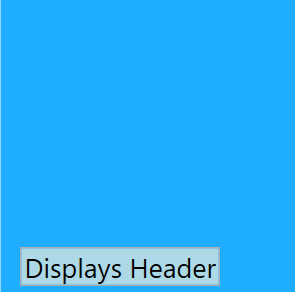
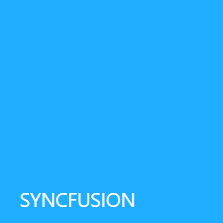
Modified 3 files in UG of HubTile

Changed region(s): [[0.0538, 0.8341, 0.7534, 0.9955], [0.0, 0.0, 0.0269, 1.0]]

diff --git a/wpf/Hub-Tile/Hub-Tile-Control.md b/wpf/Hub-Tile/Hub-Tile-Control.md
@@ -13,12 +13,13 @@ documentation: ug
 
 ## Setting Header content
 
-Header is used to display the contents at the bottom of the tile. The  content of the header can be an image, a text or a control, etc. You can set header to the tile by setting [Header](https://help.syncfusion.com/cr/wpf/Syncfusion.SfShared.Wpf~Syncfusion.Windows.Primitives.HeaderedContentControl~Header.html) property.
+Header is a name given to the tile that describes the functionality of the tile. You can set header to the tile by setting [Header](https://help.syncfusion.com/cr/wpf/Syncfusion.SfShared.Wpf~Syncfusion.Windows.Primitives.HeaderedContentControl~Header.html) property.
+The below example defines a tile that represents mail application.
 
 {% tabs %}
 {% highlight XAML %}
 <!-- SfHubTile -->
-<syncfusion:SfHubTile x:Name="hubTile" Header="HubTile"/>
+<syncfusion:SfHubTile x:Name="hubTile" Header="Mail"/>
 <!--setting header as an image-->
 <syncfusion:SfHubTile x:Name="hubTile">
    <syncfusion:SfHubTile.Header>
@@ -28,7 +29,7 @@ Header is used to display the contents at the bottom of the tile. The  content o
 <!--setting header as a control-->
 <syncfusion:SfHubTile x:Name="hubTile" Width="200">
    <syncfusion:SfHubTile.Header>
-        <TextBox Text="SYNCFUSION" />
+          <TextBlock Text="SYNCFUSION" Foreground="White" FontSize="13"/>
         </syncfusion:SfHubTile.Header>
   </syncfusion:SfHubTile>      
 {% endhighlight %}
@@ -36,12 +37,12 @@ Header is used to display the contents at the bottom of the tile. The  content o
 
 	//Setting header on HubTile
 	SfHubTile hubTile = new SfHubTile();
-	hubTile.Header = "HubTile";
+	hubTile.Header = "Mail";
 
 {% endhighlight %}
 {% endtabs %}
 
-![wpf tile header](Getting-Started_images/wpf-tile-setting-header-hubtile.png)
+![wpf tile header](Getting-Started_images/wpf-hubtile-header.png)
 
 ![wpf hubtile header as image](Getting-Started_images/wpf-hubtile-header-image.png)
 
@@ -49,12 +50,12 @@ Header is used to display the contents at the bottom of the tile. The  content o
 
 ## Setting Title content 
 
- Title is used to display the contents at the top of the tile. The content can be an image, a text or a control, etc. You can set title to the tile by setting [Title](https://help.syncfusion.com/cr/wpf/Syncfusion.SfHubTile.Wpf~Syncfusion.Windows.Controls.Notification.HubTileBase~Title.html) property.
+ Title is used to display the notifications and updates in the tile. You can set title to the tile by setting [Title](https://help.syncfusion.com/cr/wpf/Syncfusion.SfHubTile.Wpf~Syncfusion.Windows.Controls.Notification.HubTileBase~Title.html) property.
 
 {% tabs %}
 {% highlight XAML %}
 <!-- SfHubTile -->
-<syncfusion:SfHubTile x:Name="hubTile" Title="This is title area in hubtile."/>
+<syncfusion:SfHubTile x:Name="hubTile" Title="New mail from Syncfusion"/>
 <!--setting title as  an image-->
 <syncfusion:SfHubTile x:Name="hubTile">
    <syncfusion:SfHubTile.Title>
@@ -570,7 +571,7 @@ You can unfreeze a single tile or a group of tiles using [UnFreeze](https://help
 
 ### Animations
 
-The tile press animation causes the entire tile to be zoomed in/out at speicfied interval. You can set tile press animation by setting properties such as [ScaleDepth](https://help.syncfusion.com/cr/wpf/Syncfusion.SfHubTile.Wpf~Syncfusion.Windows.Controls.Notification.HubTileBase~ScaleDepth.html)  and [TilePressDuration](https://help.syncfusion.com/cr/wpf/Syncfusion.SfHubTile.Wpf~Syncfusion.Windows.Controls.Notification.HubTileBase~TilePressDuration.html) in the HubTile. The ScaleDepth is used to customize the depth of scaling effect while pressing the center of the tile. The TilePressDuration is used to determine the time taken for the single tile press animation.
+The tile press animation causes the entire tile to be zoomed in/out at specified interval. You can set tile press animation by setting properties such as [ScaleDepth](https://help.syncfusion.com/cr/wpf/Syncfusion.SfHubTile.Wpf~Syncfusion.Windows.Controls.Notification.HubTileBase~ScaleDepth.html)  and [TilePressDuration](https://help.syncfusion.com/cr/wpf/Syncfusion.SfHubTile.Wpf~Syncfusion.Windows.Controls.Notification.HubTileBase~TilePressDuration.html) in the HubTile. The ScaleDepth is used to customize the depth of scaling effect while pressing the center of the tile. The TilePressDuration is used to determine the time taken for the single tile press animation.
 
    {% tabs %}
    {% highlight XAML %}
@@ -627,8 +628,7 @@ HeaderStyle is used to customize the header of the tile by setting the required 
           <ColumnDefinition Width="Auto"/>
            <ColumnDefinition/>
          </Grid.ColumnDefinitions>
-          <Label>Header</Label>
-          <TextBox Text="Displays header" TextWrapping="Wrap" Grid.Column="1" TextAlignment="Right" Background="LightBlue"/>
+           <Image Source="D:/syncfusion.png" HorizontalAlignment="Left" Stretch="None"/>          <TextBlock Text="SYNCFUSION" Foreground="White" Grid.Column="1" FontSize="11"  />
         </Grid>
         </DataTemplate>
    </syncfusion:SfHubTile.HeaderTemplate>-->
@@ -636,7 +636,6 @@ HeaderStyle is used to customize the header of the tile by setting the required 
 {% endtabs %}
 
 ![wpf hubtile header template](Getting-Started_images/wpf-hubtile-header-template.png)
-
 ### Customizing Title
 
  Title of the tile is customized by setting [TitleStyle](https://help.syncfusion.com/cr/wpf/Syncfusion.SfHubTile.Wpf~Syncfusion.Windows.Controls.Notification.HubTileBase~TitleStyle.html) property as below.
@@ -658,8 +657,8 @@ HeaderStyle is used to customize the header of the tile by setting the required 
                 <ColumnDefinition Width="Auto"/>
                 <ColumnDefinition/>
             </Grid.ColumnDefinitions>
-                <TextBlock Text="Title" />
-                <TextBox Text="This is title area." Height="20"  VerticalAlignment="Top" Background="LightBlue" Grid.Column="1" TextAlignment="Right" Width="156"/>
+         <Image Source="D:/syncfusion.png" HorizontalAlignment="Left" VerticalAlignment="Top" Stretch="None"/>
+         <TextBlock Text="SYNCFUSION" Foreground="White" Grid.Column="1" FontSize="11"  />                                </Grid>
             </Grid>
             </DataTemplate>
         </Setter.Value>

diff --git a/wpf/Hub-Tile/Getting-Started.md b/wpf/Hub-Tile/Getting-Started.md
@@ -25,7 +25,7 @@ In this walk through, you will create WPF application that contains HubTile and 
 
 ### Adding control via Designer
 
-HubTile and PulsingTile controls can be added to the application by dragging  SfHubTile and SfPulsingTile from Toolbox and dropping it in Designer view. After dropping the controls in Designer View, the assemblies such as **Syncfusion.SfHubTile.WPF** and **Syncfusion.SfShared.WPF** gets added into the project.The following code snippet will be added into XAML.
+HubTile and PulsingTile controls can be added to the application by dragging  SfHubTile and SfPulsingTile from Toolbox and dropping it in Designer view. After dropping the controls in Designer View, the assemblies such as **Syncfusion.SfHubTile.WPF** and **Syncfusion.SfShared.WPF** gets added into the project.The following code snippets will be added into XAML.
 
 {% tabs %}
 {% highlight XAML %}
@@ -33,7 +33,7 @@ HubTile and PulsingTile controls can be added to the application by dragging  Sf
 {% endhighlight %}
 {% endtabs %}
 
- SampleLayout.WPF in XAML is an auto generated namespace.
+N> SampleLayout.WPF in XAML is an auto generated namespace.
 
 ![wpf hub tile control added by designer](Getting-Started_images/SfHubTile.png)
 
